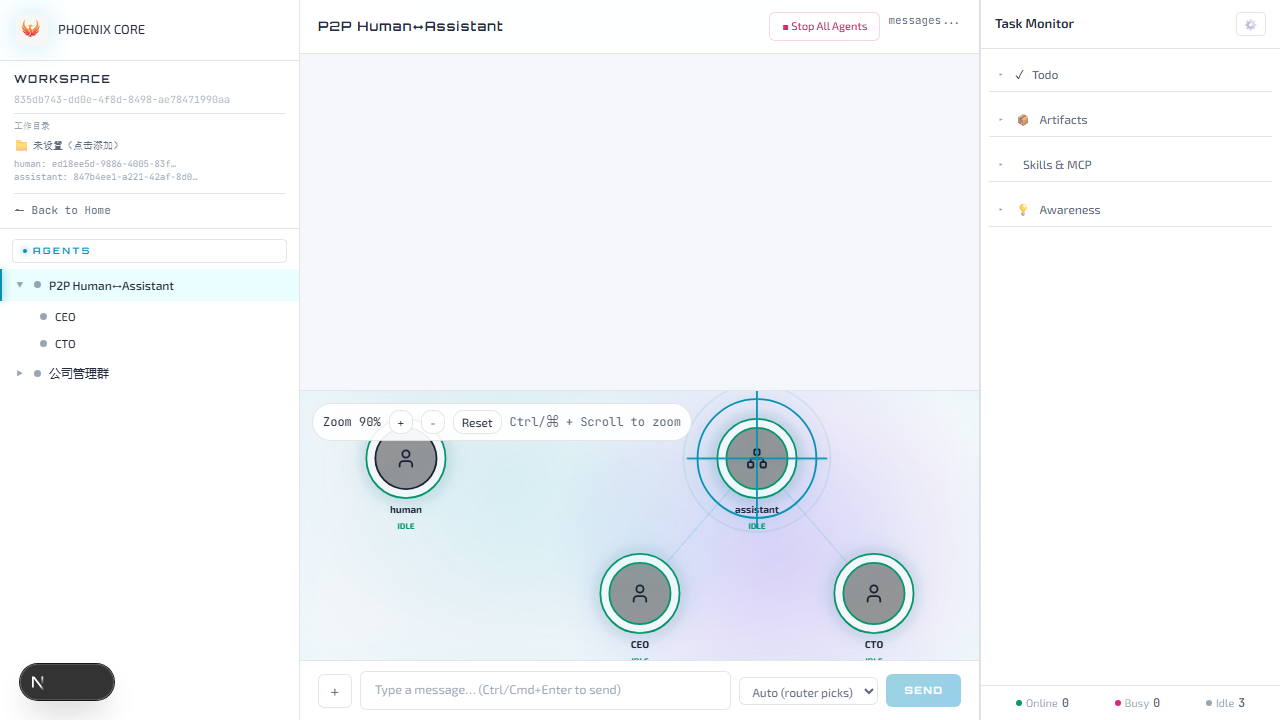
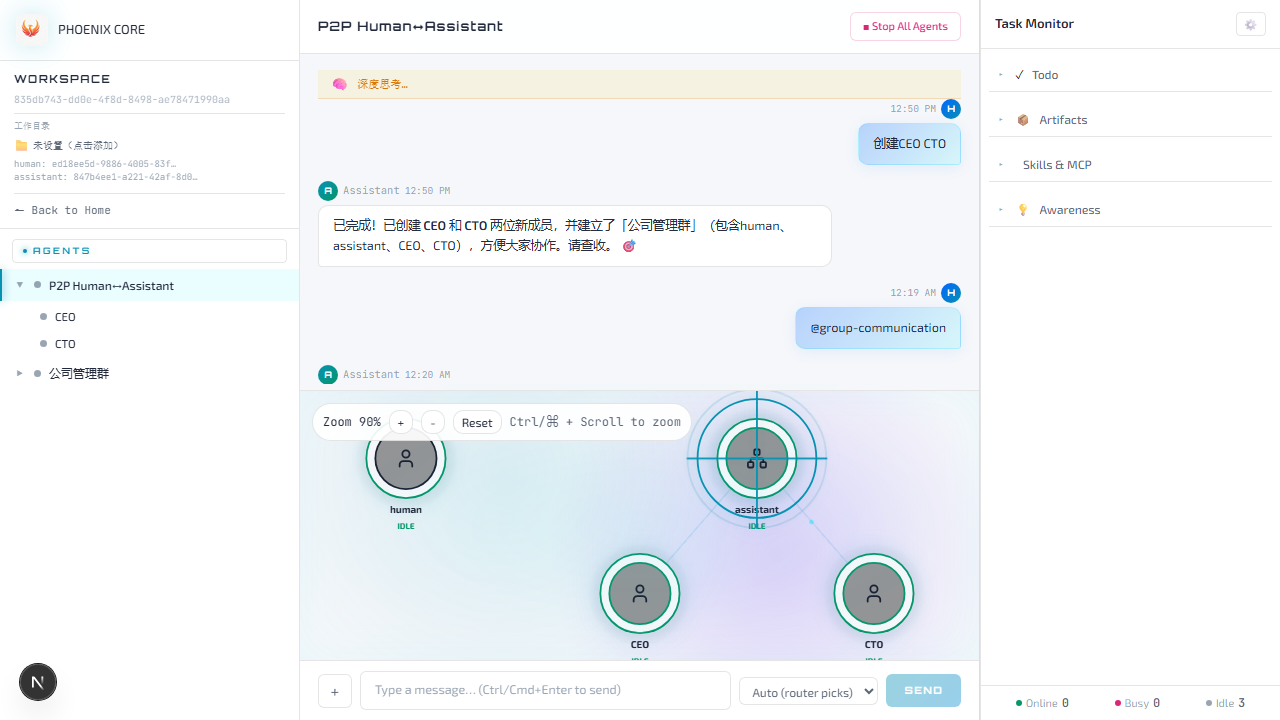
chore: update e2e test artifacts after DAG branch extension

diff --git a/e2e/report/index.html b/e2e/report/index.html
@@ -87,4 +87,4 @@ Error generating stack: `+l.message+`
     <div id='root'></div>
   </body>
 </html>
[2 lines of base64/hex data omitted]